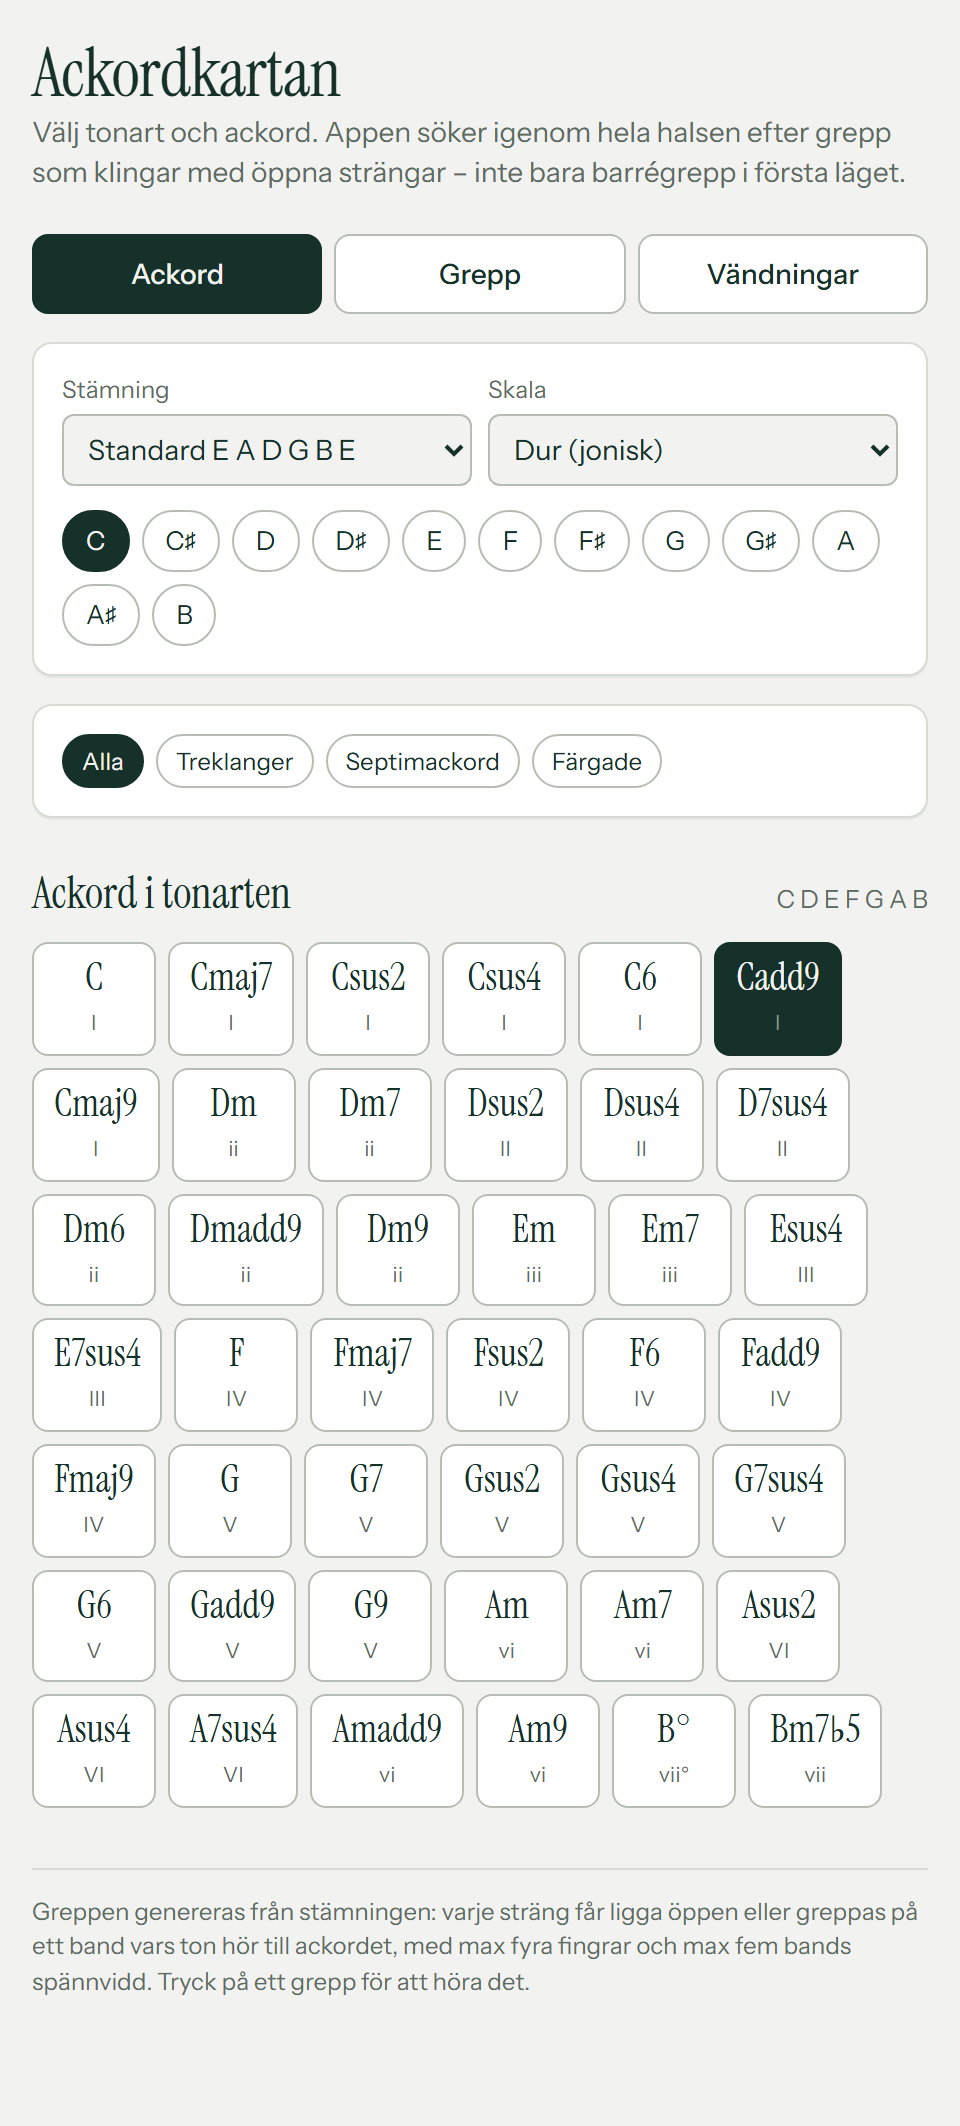
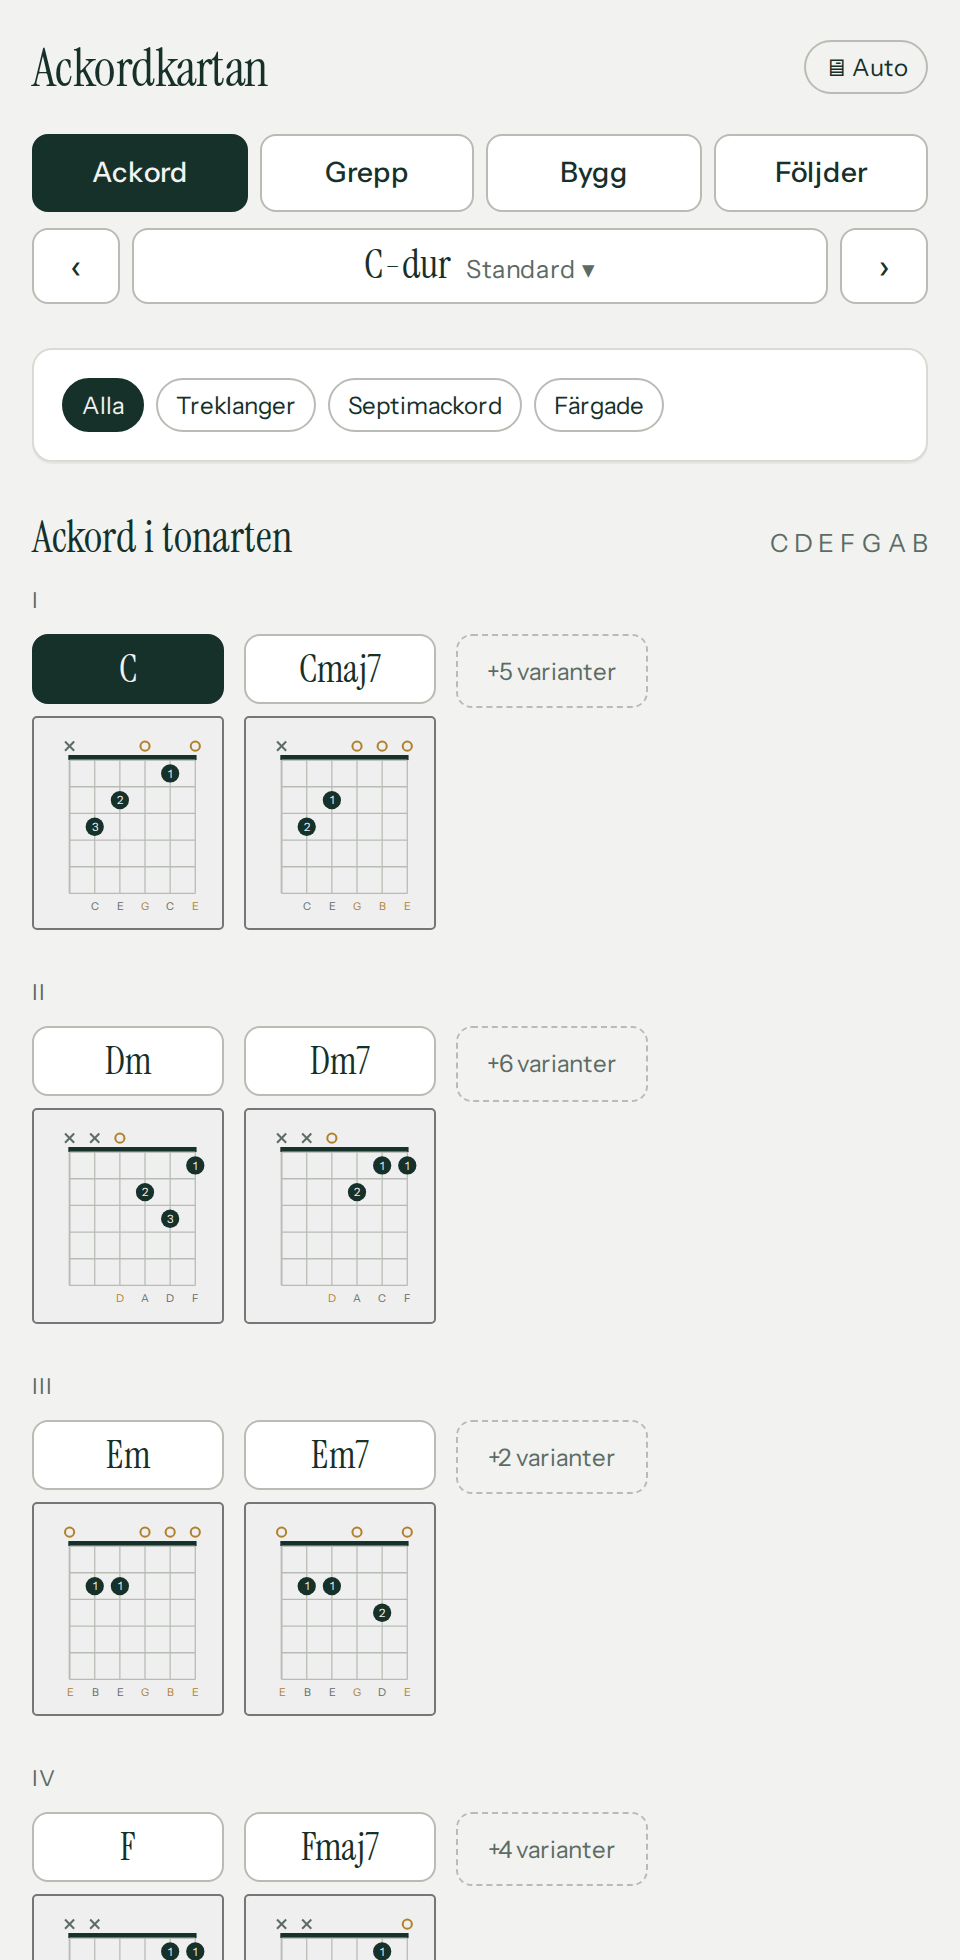
Uppdatera README, CLAUDE.md och skärmdumpar till nuvarande UI
- Nya skärmdumpar (960 px, webbfonter): Ackord, Grepp, Bygg, Följder
  (mörkt läge) och tonartsarket. vandningar-dark.png ersätts av
  foljder-dark.png.
- README: funktionslistan och kodtabellen beskriver de fyra flikarna,
  tonartsraden, stavning efter tonart, ackordkartan, byggbrickan,
  uppspelningen och minnet mellan besöken.
- CLAUDE.md: repot ligger på GitHub (inte "ej initierat"), tillståndslistan
  kompletterad, nytt avsnitt om hur skärmdumparna tas.

Claude-Session: https://claude.ai/code/session_01QJ1y3fyZoZ3MeYa3ThpUia

diff --git a/CLAUDE.md b/CLAUDE.md
@@ -6,7 +6,7 @@ This file provides guidance to Claude Code (claude.ai/code) when working with co
 
 Ackordkartan är i grunden en enfilsapp (all musikteori, greppsökning och UI-logik i [index.html](index.html)) som genererar gitarrgrepp i en vald tonart, med fokus på öppna klanger högt upp på halsen — inte bara barrégrepp i första läget. Ingen byggkedja, inga beroenden, praktiskt taget inget ackordbibliotek (enda undantaget är `CLASSIC_OPEN`, se punkt 3 nedan). Utöver `index.html` finns ett minimalt PWA-skal (`manifest.json`, `sw.js`, `icons/`) som gör appen installerbar på Android/Chrome — se "PWA" nedan.
 
-Repot är (ännu) inte initierat som git — `setup.sh` gör `git init` och skapar GitHub-repot i ett steg.
+Repot ligger på GitHub (`Ruperto72/ackordkartan`); `setup.sh` är det engångsskript som en gång gjorde `git init` och skapade GitHub-repot.
 
 ## Köra och deploya
 
@@ -34,7 +34,7 @@ Allt ligger i [index.html](index.html): en `<style>`-block, markup, och ett enda
 6. **Rendering** — `diagram()` ritar ett enskilt greppdiagram som SVG-sträng (tar en valfri `tuningName`, annars `state.tuning`); `drawNeck()` ritar hela halsdiagrammet (15 band) med skal- och ackordtoner; `render*()`-funktionerna (`renderRoots`, `renderChords`, `renderFamilies`, `renderMap`, `renderBuilder`, `renderProgStyles`, `renderLibrary`, `renderBassRow`, `renderVoicings`, `renderAll`, `renderTabs`) synkar DOM mot det globala `state`-objektet. Överst en kompakt rubrik (titel + temaknapp; beskrivningen visas som en `#intro`-ruta bara tills man tryckt OK, `localStorage`-nyckel `ackordkartan:introSeen`) och sedan `.topbar`, som klistrar mot skärmens överkant (`position:sticky`) och innehåller flikraden plus **tonartsraden**: ‹/› (`#keyDown`/`#keyUp`) stegar grundtonen ett halvt steg, mittknappen (`#keyBtn`, t.ex. "C-dur · Standard ▾", byggd av `keyName()`/`tuningName()`) öppnar ett bottenark (`<dialog id="keySheet">`, `showModal()`) med grundton, skala och stämning (`renderKeySheet()`). Val i arket gäller direkt via `setRoot()`/`setMode()`/`setTuning()`; arket stängs med Klar, Esc eller tryck utanför (jämförs mot arkets `getBoundingClientRect`, så tryck i arkets egen utfyllnad inte stänger det). Det här är den enda platsen där tonart, skala och stämning väljs – det finns inga `<select>` eller grundtonsrader i flikarna längre. UI:t är uppdelat i fyra flikar: "Ackord" (familjefilter + ackord i tonarten), "Grepp" (halsdiagram/filter/greppkort), "Bygg" (ackordkartan + byggbrickan, `state.tab="bygg"`) och "Följder" (biblioteket, `state.tab="foljder"`), styrt av `state.tab` och `renderTabs()`. Korta fliknamn med avsikt – fyra flikar ska rymmas på 360 px. Varje ackord i "Ackord i tonarten" är ett `.chip` med två syskon-knappar: `.chipname` (väljer ackordet, sätter `state.tab="grepp"` och byter dit direkt — resultatet i Grepp-fliken är annars osynligt tills man byter flik manuellt) och `.chipdiagram` (greppdiagram för `baseVoicing(chord)`, klick spelar ackordet utan att byta flik; saknas ett grundgrepp visas en textplatshållare i stället). Flikraden har rätt WAI-ARIA-mönster för `role="tablist"`: roving tabindex (bara aktiv flik har `tabindex="0"`) plus piltangenter/Home/End i en `keydown`-lyssnare på `#tabs`. `renderChords()` grupperar chipsen per `deg` med en liten `.degree`-rubrik (`degRoman`) mellan grupperna, istället för att visa romersk siffra på varje chip. Med familjen "Alla" visas bara treklang+septimackord per steg; färgvarianterna fälls ut per steg med en `.chipmore`-knapp ("+5 varianter", `state.colorOpen`), och ett valt färgackord håller sitt steg utfällt – fliken blev ungefär hälften så lång. **Grepp-fliken** har överst ett eget ackordval (`renderGreppChords()`, anropas från `renderVoicings()`): en rad med tonartens sju skalsteg (`.degrow`, treklangens namn + `degRoman`) och en scrollbar rad med varianterna på valt skalsteg (`#greppVariants`). Byte av skalsteg behåller typen om den finns (G7 → vi → Am7), annars familjen, annars treklangen; allt går via `selectChord(c)`. `renderChords()` byter bara ut `state.chord` om ackordet saknas i tonarten helt – inte om det bara är dolt av familjefiltret – så ett ackord valt i Grepp överlever ett smalt filter i Ackord. `renderVoicings()` delar resultatet: grepp med grundtonen i basen först, grupperade efter läge (`VOICING_GROUPS`: band 0–4 / 5–9 / 10+, `PER_GROUP`=6 synliga per grupp, "Visa fler" upp till 24 via `state.greppMore`), och omvändningar i en hopfälld `<details class="invdetails">` (`state.invOpen`) med samma gruppering. Med tvingad bas (`state.slashBass`) visas allt i en uppsättning grupper. `voicingCard()` ritar ett kort. `renderBassRow()` (i Filter-panelen på Grepp-fliken) listar ackordets egna toner (grundton + terser/septima som ingår i `chord.iv`) som val för `state.slashBass` — klick byter bas och kör om `renderVoicings()`, som visar bastonen i titeln/kortnamnet som `Ackord/Bas` (t.ex. "C/E").
 7. **Ljud** — `pluck()` syntetiserar en sträng med Karplus-Strong (brusigt ringbuffer-filter) via Web Audio, `strum(notes, at, spread, vol)` spelar flera toner förskjutna i tid. Inget ljudmaterial laddas. **Uppspelning av följder** går via en enda spelare (`player`, `togglePlayback(owner, voicings)`/`stopPlayback()`): ett slag = 60/`state.bpm` s, varje ackord varar `state.beatsPerChord` (1/2/4) slag med ett anslag per slag (första hårdare), `state.loop` spelar om tills man trycker ■. Ljudet schemaläggs i Web Audio med 0,25 s framförhållning (`setInterval` 60 ms); markeringen av ackordet som spelas (`.playing`) sätts med `setTimeout` i takt med ljudet via `markStep(owner, i)`, som letar upp `[data-play="<owner>"]` vid varje steg (överlever omritningar). Spelknappar bär `data-playbtn="<owner>"` och växlar ▶/■ via `updatePlayButtons()`. Ägare: `"builder"` (brickans chips + utfällda grepp), `"lib-<keyFn(0)>"` (biblioteksrader), `"mina-<id>"`. Uppspelningen stoppas vid tonart-/skal-/stämningsbyte och när byggarens följd ändras (även ↶, som inte går via `builderEdit`). `player.gen` räknas upp vid varje start/stopp; `togglePlayback` sätter `player.owner` *före* `await ctx().resume()` och avbryter om `gen` ändrats under väntan, och varje timer-callback kontrollerar sin `gen` – annars kunde ett dubbeltryck starta två spelare, och en kvarglömd timer klippa av senare uppspelningar. Tempoinställningarna (`.playset`, `renderPlaySettings()`) finns både i brickan och i Följder och sparas i `ackordkartan:state`. Tryck på något som spelar ljud (`.progdiagram`, `.card`, `.chipdiagram`, `.tchip`, `.mapcell`) ger en kort bronsring (`.pulse`, delegerad `pointerdown`-lyssnare).
 
-Allt UI-tillstånd hålls i det globala `state`-objektet (tuning, mode, root, chord, slashBass, progStyle, family, onlyOpen, noBarre, minPos, sort, tab, progVoicingIdx, progBuilder, builderUndo, builderShowGrepp, greppMore, invOpen, showScale). Varje `on*`-hanterare uppdaterar `state` och kallar om nödvändigt `renderChords()`/`drawNeck()`/`renderVoicings()` — det finns ingen reaktivitet, uppdateringarna är manuella och explicita. **Tillståndet överlever omstart**: `saveState()`/`loadState()` (`localStorage`-nyckel `ackordkartan:state`) sparar flik, tonart, skala, stämning, familj, filter, biblioteksval, valt ackord (som `{deg, sfx, bass}` relativt grundtonen) och byggarens följd (som `{semis, sfx, bass, idx}`, samma form som `transposeBuilder`). Sparas 250 ms efter varje klick/ändring (fångande lyssnare på `document`) och alltid vid `visibilitychange`→hidden/`pagehide`. `loadState()` körs först i `init()` och validerar varje fält – okända värden ignoreras tyst. Nytt fält i `state` som ska minnas → lägg till i båda funktionerna. Byte av skala behåller, precis som `setRoot()`, valt ackords skalsteg+typ. `state.slashBass` nollställs varje gång ackord, tonart eller skala byts (annars skulle en tidigare vald bas kunna hänga kvar och tyst filtrera bort alla grepp för ett nytt ackord som saknar den tonen).
+Allt UI-tillstånd hålls i det globala `state`-objektet (tuning, mode, root, chord, slashBass, progStyle, family, onlyOpen, noBarre, minPos, sort, tab, progVoicingIdx, progBuilder, builderUndo, builderShowGrepp, greppMore, invOpen, colorOpen, bpm, beatsPerChord, loop, showScale). Varje `on*`-hanterare uppdaterar `state` och kallar om nödvändigt `renderChords()`/`drawNeck()`/`renderVoicings()` — det finns ingen reaktivitet, uppdateringarna är manuella och explicita. **Tillståndet överlever omstart**: `saveState()`/`loadState()` (`localStorage`-nyckel `ackordkartan:state`) sparar flik, tonart, skala, stämning, familj, filter, biblioteksval, tempo (`bpm`/`beatsPerChord`/`loop`), valt ackord (som `{deg, sfx, bass}` relativt grundtonen) och byggarens följd (som `{semis, sfx, bass, idx}`, samma form som `transposeBuilder`). Sparas 250 ms efter varje klick/ändring (fångande lyssnare på `document`) och alltid vid `visibilitychange`→hidden/`pagehide`. `loadState()` körs först i `init()` och validerar varje fält – okända värden ignoreras tyst. Nytt fält i `state` som ska minnas → lägg till i båda funktionerna. Byte av skala behåller, precis som `setRoot()`, valt ackords skalsteg+typ. `state.slashBass` nollställs varje gång ackord, tonart eller skala byts (annars skulle en tidigare vald bas kunna hänga kvar och tyst filtrera bort alla grepp för ett nytt ackord som saknar den tonen).
 
 ### Bygg och Följder
 
@@ -65,6 +65,10 @@ Vanliga och stilar ritas med `voicingRow(seq, keyFn, rerender)` (`seq` = `[{chor
 Grepp-fliken har två `<details class="filters">`: "Hur funkar greppen?" (kort förklaring, flyttad hit från en tidigare `<footer>` som togs bort — ingen läste den längst ner) och "Filter". Båda stängda som standard.
 
 Ljust/mörkt läge styrs via CSS custom properties och `prefers-color-scheme`, med `[data-theme]`-attributet på `<html>` som manuell override-krok. `themeMode` ("auto"/"light"/"dark", `localStorage`-nyckel `ackordkartan:theme`) styr detta via `applyTheme()`/`cycleTheme()` — temaknappen i headern cyklar mellan lägena.
+
+## Skärmdumpar
+
+`screenshots/` (länkade från README) tas i headless Chromium med vyn 480×980 CSS-px och `deviceScaleFactor` 2 (960 px breda PNG), med webbfonterna laddade och `ackordkartan:introSeen` satt så att intro-rutan inte syns. Motiv: `ackord.png` (C-dur, standardvyn), `grepp.png` (Cadd9), `bygg.png` (I vi IV V + "+V/x" + "+Lån", beskuren till brickans nederkant), `tonart.png` (arket öppet över Bygg) och `foljder-dark.png` (Jazz, mörkt läge). Ta om dem när UI:t ändras synligt. I en miljö bakom proxy: blockera service workern (`serviceWorkers:'block'`) – annars hämtar den om sidan via proxyn – och servera Google Fonts via en route i stället för att peka webbläsaren mot proxyn.
 
 ## PWA
 

diff --git a/README.md b/README.md
@@ -1,12 +1,16 @@
 # Ackordkartan
 
-En app som genererar gitarrgrepp i en vald tonart — med fokus på **öppna klanger högt upp på halsen**, inte bara barrégrepp i första läget. Kärnan (all teori, all greppsökning, hela UI:t) är en enfilsapp i [index.html](index.html) — ingen byggkedja, inga beroenden, inget ackordbibliotek, allt körs i webbläsaren.
+En app som genererar gitarrgrepp i en vald tonart — med fokus på **öppna klanger högt upp på halsen**, inte bara barrégrepp i första läget. Kärnan (all teori, all greppsökning, hela UI:t) är en enfilsapp i [index.html](index.html) — ingen byggkedja, inga beroenden, praktiskt taget inget ackordbibliotek (bara de klassiska öppna skolboksgreppen), allt körs i webbläsaren.
 
 ## Skärmdumpar
 
-| Ackord | Grepp | Ackordföljder |
+| Ackord | Grepp | Bygg |
 | --- | --- | --- |
-| [![Ackord-fliken: tonart, skala och ackordlista](screenshots/ackord.png)](screenshots/ackord.png) | [![Grepp-fliken: halsdiagram och greppkort för Cadd9](screenshots/grepp.png)](screenshots/grepp.png) | [![Ackordföljder-fliken: bläddringsbara ackordföljder, mörkt läge](screenshots/vandningar-dark.png)](screenshots/vandningar-dark.png) |
+| [![Ackord-fliken: ackorden i C-dur per skalsteg med grundgrepp, färgvarianter hopfällda](screenshots/ackord.png)](screenshots/ackord.png) | [![Grepp-fliken: ackordval per skalsteg, halsdiagram och grepp för Cadd9 med C i basen, grupperade efter läge](screenshots/grepp.png)](screenshots/grepp.png) | [![Bygg-fliken: ackordkartan med sekundärdominanter, huvudackord och lånade ackord, och byggbrickan med en kryddad följd](screenshots/bygg.png)](screenshots/bygg.png) |
+
+| Följder (mörkt läge) | Tonart |
+| --- | --- |
+| [![Följder-fliken i mörkt läge: jazzföljder med romerska siffror och bläddringsbara grepp](screenshots/foljder-dark.png)](screenshots/foljder-dark.png) | [![Tonartsarket: grundton, skala och stämning](screenshots/tonart.png)](screenshots/tonart.png) |
 
 ## Så fungerar greppsökningen
 
@@ -23,14 +27,17 @@ Steg 4 är hela poängen: filtrera på "minst en öppen sträng" + lägsta läge
 
 ## Funktioner
 
-- Sju skalor: dur, moll, dorisk, mixolydisk, lydisk, frygisk, harmonisk moll
-- Treklanger, septimackord och färgade ackord (sus2, sus4, 6, add9, 9, m9 …) filtrerade till det som håller sig i tonarten
-- Alternativa stämningar: standard, drop D, DADGAD, öppen G, öppen D, nedstämt ett halvt/helt steg
-- Tre flikar: **Ackord** (tonart/skala/ackordval), **Grepp** (halsdiagram, filter, greppkort) och **Ackordföljder**
-- Halsdiagram som visar ackordstonerna mot skalan över 15 band
-- Ackordföljder: fem vanliga ackordföljder per tonart med bläddringsbara grepp per ackord, en stilväljare med tio musikstilar (blues, rock, punk, country, jazz, bossa nova, flamenco, spansk musik, klassisk musik, reggae) — oberoende av vald skala — plus en byggare för egna ackordföljder som sparas i webbläsaren (låsta till de exakta grepp du valde)
-- Uppspelning med Karplus-Strong-syntes via Web Audio, inget ljudmaterial att ladda
-- Följer systemets ljusa/mörka läge
+- **Fyra flikar**: **Ackord** (ackorden i tonarten), **Grepp** (halsdiagram, filter, greppkort), **Bygg** (ackordkartan och en byggbricka för egna följder) och **Följder** (bibliotek med vanliga följder, tio stilar och dina sparade)
+- **En gemensam tonartsrad** under flikarna: ‹ › flyttar ett halvt steg, mittknappen öppnar ett ark med grundton, sju skalor (dur, moll, dorisk, mixolydisk, lydisk, frygisk, harmonisk moll) och sju stämningar (standard, drop D, DADGAD, öppen G, öppen D, ett halvt/helt steg ned)
+- **Stavning efter tonart**: B♭ i F-dur, E♭maj7 som ♭III i C, D♭-dur men C♯-moll
+- **Ackord**: treklanger och septimackord per skalsteg med klassiska öppna grundgrepp; färgade varianter (sus2, sus4, 6, add9, 9, m9 …) som håller sig i tonarten fälls ut per steg
+- **Grepp**: välj skalsteg och variant direkt i fliken; grepp med grundtonen i basen först, grupperade efter läge (band 0–4 / 5–9 / 10+), omvändningar hopfällda; valfri slash-bas; skalans toner som små prickar runt greppet
+- **Ackordkartan** (inspirerad av chord_files *Progressions*): sekundärdominanter, huvudackord och lånade ackord från parallelltonarten i en kolumn per skalsteg; efter varje ackord markeras de naturliga nästa stegen
+- **Byggbrickan**: följden som ackordbrickor, **+V/x** och **+Lån** kryddar den enligt kartans regler, ↶ ångrar, 🎯 *Samla i ett läge* väljer grepp som minimerar handförflyttningen, 💾 sparar; byter du tonart följer följden med
+- **Följder**: fem vanliga följder per tonart och tio stilar (blues, rock, punk, country, jazz, bossa nova, flamenco, spansk musik, klassisk musik, reggae), med romerska siffror, bläddringsbara grepp och *Bygg vidare* till byggbrickan
+- **Uppspelning** med Karplus-Strong-syntes via Web Audio (inget ljudmaterial att ladda): tempo 40–200 bpm, 1/2/4 slag per ackord, slinga, och markering av ackordet som spelas
+- **Minns var du var**: flik, tonart, skala, stämning, filter, valt ackord, byggarens följd och tempo sparas i webbläsaren
+- Följer systemets ljusa/mörka läge (eller välj själv)
 - Installerbar som app på Android/Chrome (PWA) och håller skärmen vaken medan appen är öppen
 
 ## Köra lokalt
@@ -57,8 +64,15 @@ All teori, sökning och rendering ligger i `index.html`:
 | `findVoicings()` | sökningen och poängsättningen ovan |
 | `fingering()`, `voicingFromFrets()` | finger 1–4 efter bandordning; bygger ett grepp baklänges från sparade band |
 | `diagram()`, `drawNeck()` | SVG-rendering av greppdiagram respektive halsdiagram |
-| `progRow()`, `renderBuiltinProgs()`, `renderStyleProgs()`, `renderCustomProgs()` | Ackordföljder-fliken: delad radrendering, de fem inbyggda följderna, tio stilprogressioner (`STYLE_PROGS`, oberoende av vald skala), sparade/byggda egna |
-| `pluck()`, `strum()` | Karplus-Strong |
+| `keyLetter()`, `spell()`, `chordPcName()` | stavning efter tonart (en bokstav per skalsteg) |
+| `renderRoots()`, `renderKeySheet()`, `setRoot()`/`setMode()`/`setTuning()` | tonartsraden och tonartsarket |
+| `renderGreppChords()`, `renderVoicings()` | Grepp-fliken: ackordval och greppkort grupperade efter läge |
+| `progMap()`, `renderMap()`, `spiceSec()`/`spiceBor()` | ackordkartan och Krydda-reglerna |
+| `renderBuilder()`, `builderEdit()`, `transposeBuilder()` | byggbrickan: följden, ångra, transponering |
+| `progRow()`, `voicingRow()`, `renderLibrary()` | rader med greppdiagram och biblioteket i Följder (`STYLE_PROGS` för stilarna) |
+| `gatherIdx()` | *Samla i ett läge*: Viterbi över greppistorna |
+| `pluck()`, `strum()`, `togglePlayback()` | Karplus-Strong och uppspelning av följder |
+| `saveState()`, `loadState()` | minnet mellan besöken |
 
 Utöver `index.html` finns ett litet PWA-skal som gör appen installerbar (Chrome/Android):
 
